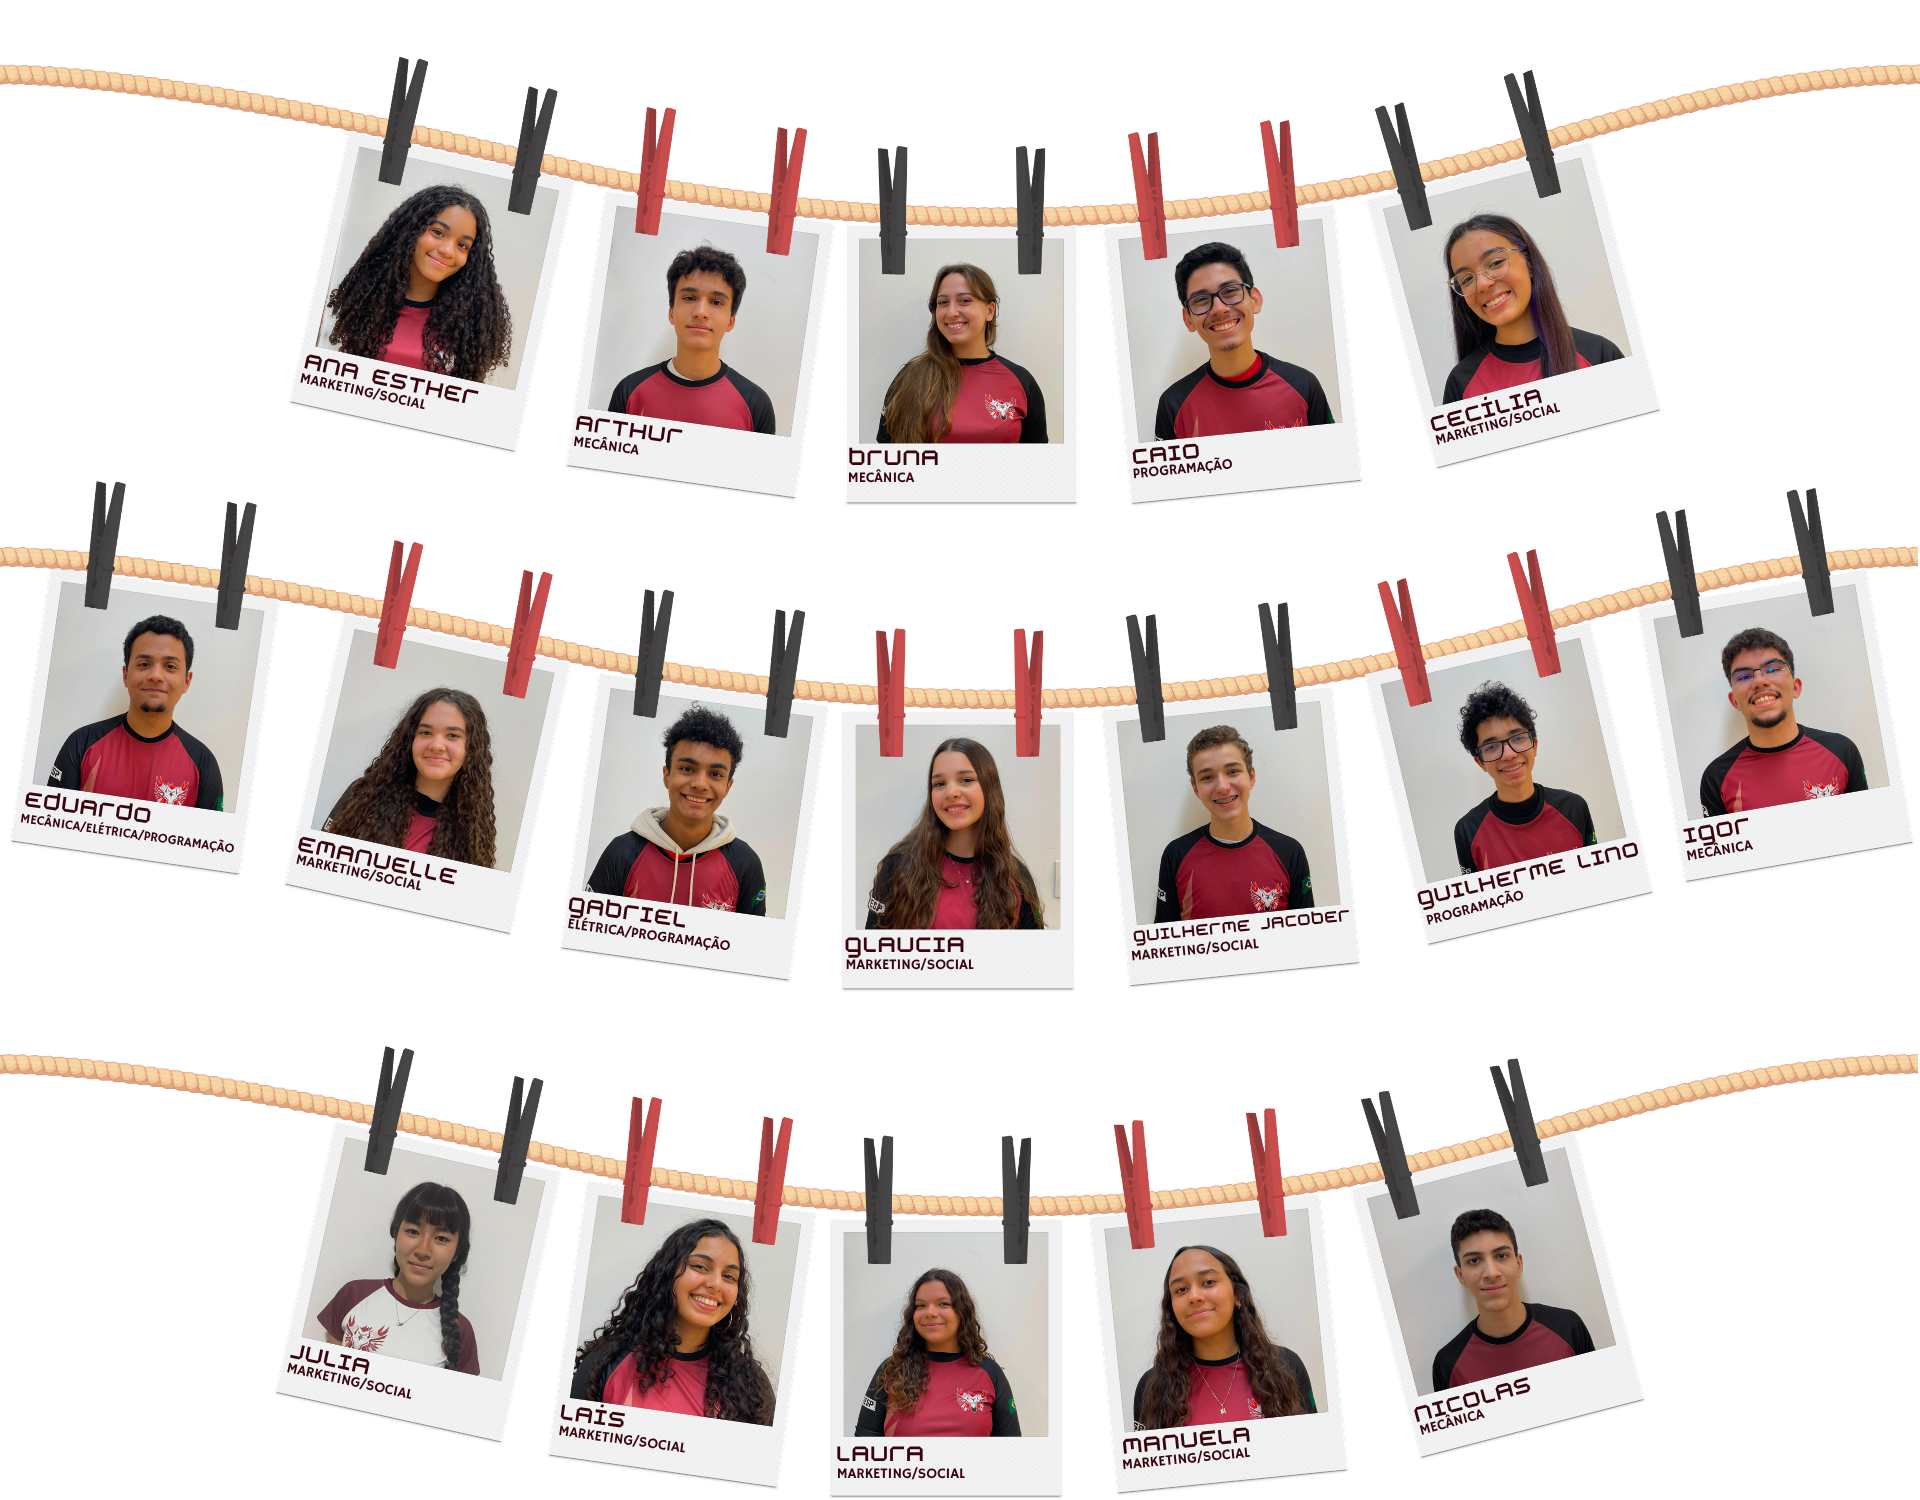
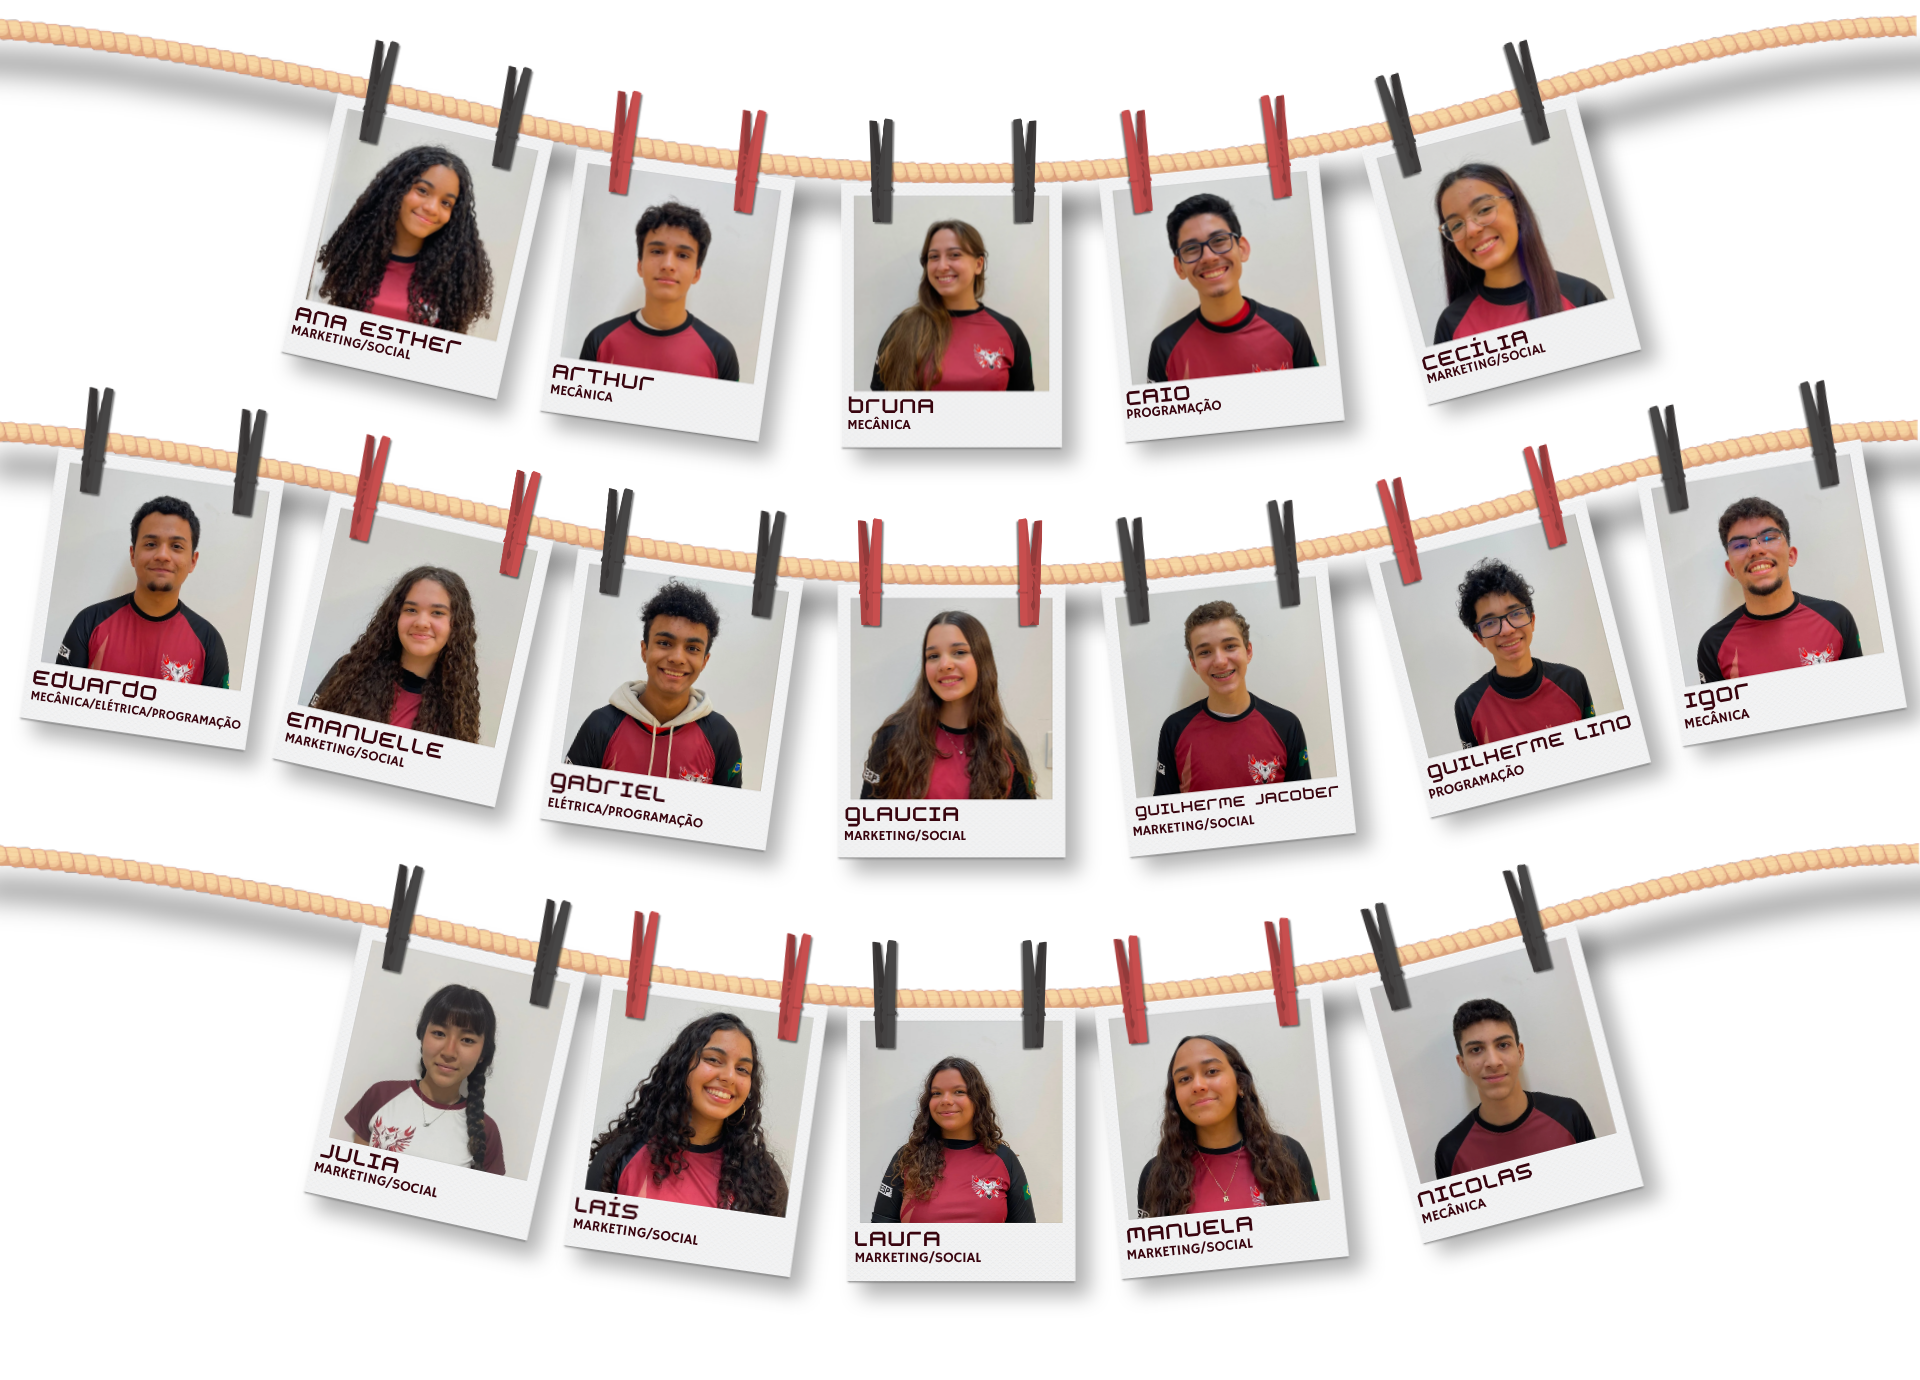
Update to Sponsors, Index and Hall of Fame

diff --git a/index.html b/index.html
@@ -14,8 +14,6 @@
             <h1>Mega Harpy 9085</h1>
         </div>
     </header>
-    <img src="assets/images/leftwing.png" id="leftwing" width="60px">
-    <img src="assets/images/rightwing.png" id="rightwing" width="56px">
     <nav>
         <a>Home</a>
         <p><b>|</b></p>
@@ -26,6 +24,7 @@
         <a href="pages/repositorio.html">Repositório</a>
     </nav>
     <br><br><br><br><br><br><br>
+    <img src="assets/images/mega solar.jpeg" alt="Mega Solar" width="100%">
     <p class="conteudo">Lorem ipsum dolor sit amet consectetur adipisicing elit. Voluptatum, odio saepe itaque vel cum minus consectetur maxime incidunt officia voluptatibus perspiciatis repellendus accusantium iusto quasi eius aspernatur laudantium voluptates sunt!
     Molestiae officia tempore soluta beatae perferendis vitae, facere nobis, maiores eligendi accusamus facilis atque expedita provident id libero. Id, mollitia quas. Sequi voluptates assumenda, necessitatibus architecto quo error pariatur ut.
     Repellendus, recusandae. Eveniet obcaecati consectetur corporis, incidunt excepturi eius quasi quia doloremque sunt rerum cumque eaque minus aliquid! Repellendus dignissimos laudantium error beatae dolore itaque deleniti debitis cupiditate eos impedit.
@@ -59,11 +58,11 @@
     <div class="bottom">
         <h1>Obrigado aos nossos patrocinadores, que tornam nossa missão possível!</h1>
         <div class="alinhado">
-            <a href="#" target="_blank" class="highlight"><img src="assets/images/logo_sesi.png" alt="logo do sesi" width="175px"></a>
-            <a href="#" target="_blank" class="highlight"><img src="assets/images/logo_senai.png" alt="logo do senai" width="200px"></a>
-            <a href="#" target="_blank" class="highlight"><img src="assets/images/logo_john_deere.png" alt="logo da john deere" width="200px"></a>
-            <a href="#" target="_blank" class="highlight"><img src="assets/images/logo_rockwell.png" alt="logo da rockwell" width="200px"></a>
-            <a href="#" target="_blank" class="highlight"><img src="assets/images/logo_fraternidade_fronteiras.png" alt="logo da fraternidade sem fronteiras" width="200px"></a>
+            <a href="https://indaiatuba.sesisp.org.br/" target="_blank" class="highlight"><img src="assets/images/logo_sesi.png" alt="logo do sesi" width="175px"></a>
+            <a href="https://www.sp.senai.br/unidade/indaiatuba/" target="_blank" class="highlight"><img src="assets/images/logo_senai.png" alt="logo do senai" width="200px"></a>
+            <a href="https://www.deere.com.br/pt/" target="_blank" class="highlight"><img src="assets/images/logo_john_deere.png" alt="logo da john deere" width="200px"></a>
+            <a href="https://www.rockwellautomation.com/pt-br.html" target="_blank" class="highlight"><img src="assets/images/logo_rockwell.png" alt="logo da rockwell" width="200px"></a>
+            <a href="https://www.fraternidadesemfronteiras.org.br/" target="_blank" class="highlight"><img src="assets/images/logo_fraternidade_fronteiras.png" alt="logo da fraternidade sem fronteiras" width="200px"></a>
         </div>        
     </div>
 </body>

diff --git a/pages/hallfama.html b/pages/hallfama.html
@@ -29,12 +29,12 @@
     <div class="bottom">
         <h1>Patrocinadores</h1>
         <div class="alinhado">
-            <a href="#" target="_blank" class="highlight"><img src="../assets/images/logo_sesi.png" alt="logo do sesi" width="175px"></a>
-            <a href="#" target="_blank" class="highlight"><img src="../assets/images/logo_senai.png" alt="logo do senai" width="200px"></a>
-            <a href="#" target="_blank" class="highlight"><img src="../assets/images/logo_john_deere.png" alt="logo da john deere" width="200px"></a>
-            <a href="#" target="_blank" class="highlight"><img src="../assets/images/logo_rockwell.png" alt="logo da rockwell" width="200px"></a>
-            <a href="#" target="_blank" class="highlight"><img src="../assets/images/logo_fraternidade_fronteiras.png" alt="logo da fraternidade sem fronteiras" width="200px"></a>
-        </div>        
+            <a href="https://indaiatuba.sesisp.org.br/" target="_blank" class="highlight"><img src="../assets/images/logo_sesi.png" alt="logo do sesi" width="175px"></a>
+            <a href="https://www.sp.senai.br/unidade/indaiatuba/" target="_blank" class="highlight"><img src="../assets/images/logo_senai.png" alt="logo do senai" width="200px"></a>
+            <a href="https://www.deere.com.br/pt/" target="_blank" class="highlight"><img src="../assets/images/logo_john_deere.png" alt="logo da john deere" width="200px"></a>
+            <a href="https://www.rockwellautomation.com/pt-br.html" target="_blank" class="highlight"><img src="../assets/images/logo_rockwell.png" alt="logo da rockwell" width="200px"></a>
+            <a href="https://www.fraternidadesemfronteiras.org.br/" target="_blank" class="highlight"><img src="../assets/images/logo_fraternidade_fronteiras.png" alt="logo da fraternidade sem fronteiras" width="200px"></a>
+        </div>               
     </div>
 </body>
 </html>

diff --git a/pages/projetos.html b/pages/projetos.html
@@ -37,12 +37,12 @@
     <div class="bottom">
         <h1>Patrocinadores</h1>
         <div class="alinhado">
-            <a href="#" target="_blank" class="highlight"><img src="../assets/images/logo_sesi.png" alt="logo do sesi" width="175px"></a>
-            <a href="#" target="_blank" class="highlight"><img src="../assets/images/logo_senai.png" alt="logo do senai" width="200px"></a>
-            <a href="#" target="_blank" class="highlight"><img src="../assets/images/logo_john_deere.png" alt="logo da john deere" width="200px"></a>
-            <a href="#" target="_blank" class="highlight"><img src="../assets/images/logo_rockwell.png" alt="logo da rockwell" width="200px"></a>
-            <a href="#" target="_blank" class="highlight"><img src="../assets/images/logo_fraternidade_fronteiras.png" alt="logo da fraternidade sem fronteiras" width="200px"></a>
-        </div>        
+            <a href="https://indaiatuba.sesisp.org.br/" target="_blank" class="highlight"><img src="../assets/images/logo_sesi.png" alt="logo do sesi" width="175px"></a>
+            <a href="https://www.sp.senai.br/unidade/indaiatuba/" target="_blank" class="highlight"><img src="../assets/images/logo_senai.png" alt="logo do senai" width="200px"></a>
+            <a href="https://www.deere.com.br/pt/" target="_blank" class="highlight"><img src="../assets/images/logo_john_deere.png" alt="logo da john deere" width="200px"></a>
+            <a href="https://www.rockwellautomation.com/pt-br.html" target="_blank" class="highlight"><img src="../assets/images/logo_rockwell.png" alt="logo da rockwell" width="200px"></a>
+            <a href="https://www.fraternidadesemfronteiras.org.br/" target="_blank" class="highlight"><img src="../assets/images/logo_fraternidade_fronteiras.png" alt="logo da fraternidade sem fronteiras" width="200px"></a>
+        </div>               
     </div>
 </body>
 </html>

diff --git a/pages/repositorio.html b/pages/repositorio.html
@@ -47,12 +47,12 @@
     <div class="bottom">
         <h1>Patrocinadores</h1>
         <div class="alinhado">
-            <a href="#" target="_blank" class="highlight"><img src="../assets/images/logo_sesi.png" alt="logo do sesi" width="175px"></a>
-            <a href="#" target="_blank" class="highlight"><img src="../assets/images/logo_senai.png" alt="logo do senai" width="200px"></a>
-            <a href="#" target="_blank" class="highlight"><img src="../assets/images/logo_john_deere.png" alt="logo da john deere" width="200px"></a>
-            <a href="#" target="_blank" class="highlight"><img src="../assets/images/logo_rockwell.png" alt="logo da rockwell" width="200px"></a>
-            <a href="#" target="_blank" class="highlight"><img src="../assets/images/logo_fraternidade_fronteiras.png" alt="logo da fraternidade sem fronteiras" width="200px"></a>
-        </div>        
+            <a href="https://indaiatuba.sesisp.org.br/" target="_blank" class="highlight"><img src="../assets/images/logo_sesi.png" alt="logo do sesi" width="175px"></a>
+            <a href="https://www.sp.senai.br/unidade/indaiatuba/" target="_blank" class="highlight"><img src="../assets/images/logo_senai.png" alt="logo do senai" width="200px"></a>
+            <a href="https://www.deere.com.br/pt/" target="_blank" class="highlight"><img src="../assets/images/logo_john_deere.png" alt="logo da john deere" width="200px"></a>
+            <a href="https://www.rockwellautomation.com/pt-br.html" target="_blank" class="highlight"><img src="../assets/images/logo_rockwell.png" alt="logo da rockwell" width="200px"></a>
+            <a href="https://www.fraternidadesemfronteiras.org.br/" target="_blank" class="highlight"><img src="../assets/images/logo_fraternidade_fronteiras.png" alt="logo da fraternidade sem fronteiras" width="200px"></a>
+        </div>       
     </div>
 </body>
 </html>

diff --git a/style/halldafamastyle.css b/style/halldafamastyle.css
@@ -25,11 +25,25 @@ Contraste:
   font-style: normal;
 }
 
-body{
-    background-color:#640d14;
-    color:#ffefef;
+body {
+    background-color: #580006;
+    color: #ffefef;
     font-family: 'GlacialIndifference', sans-serif;
-    margin:0;
+    margin: 0;
+    position: relative;
+}
+
+body::before {
+    content: "";
+    position: fixed;
+    inset: 0;
+    background-image: url("../assets/images/harpia branca.png");
+    background-repeat: no-repeat;
+    background-position: center;
+    background-attachment: fixed;
+    background-size: 500px;
+    opacity: 0.3;
+    z-index: -1;
 }
 
 .conteudo {
@@ -53,7 +67,7 @@ header::before{
     inset: 0;
 
     background-image: url("../assets/images/header_background.png");
-    background-size: 150px;
+    background-size: 135px;
 
     opacity: 0.3;
     z-index: -1;
@@ -82,7 +96,7 @@ header h1 {
 }
 
 nav {
-    background: #640d14;
+    background: #75111a;
     text-align: center;
     position: fixed;
     min-width: 100%;
@@ -125,6 +139,7 @@ nav p {
     text-align:center;
     font-family: 'Kagitingan', sans-serif;
     font-size: 50px;
+    margin-bottom:0px;
 }
 
 .bottom {

diff --git a/style/style.css b/style/style.css
@@ -53,24 +53,10 @@ header::before{
     inset: 0;
 
     background-image: url("../assets/images/header_background.png");
-    background-size: 150px;
+    background-size: 135px;
 
     opacity: 0.3;
     z-index: -1;
-}
-
-#leftwing {
-    left:0;
-    z-index: 21;
-    position:fixed;
-    opacity:50%;
-}
-
-#rightwing {
-    right:0;
-    z-index: 21;
-    position:fixed;
-    opacity:50%;
 }
 
 header h1 {
@@ -86,14 +72,15 @@ nav {
     text-align: center;
     position: fixed;
     min-width: 100%;
-    z-index: 20;
+    z-index: 19;
     display:flex;
     flex-direction:row;
     align-items:center;
     justify-content:center;
     height:30px;
-    top:112px;
+    top:117px;
     left:0;
+    box-shadow: 0 4px 50px rgba(0, 0, 0, 0.6);
 }
 
 nav a {
